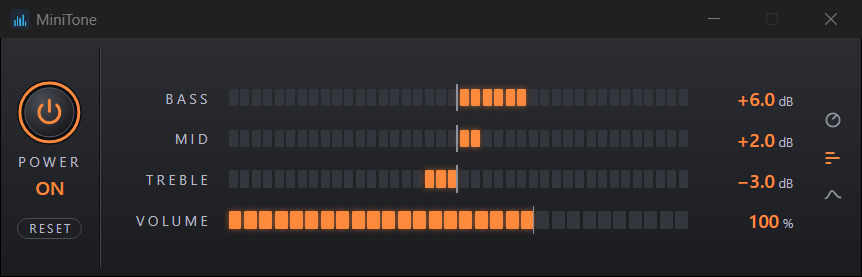
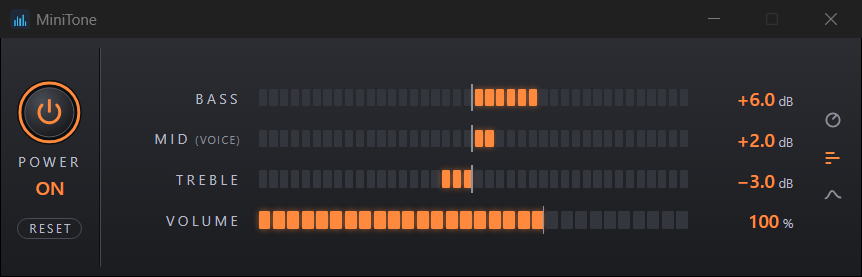
MID の名前に、小さい字で (VOICE) を添える（案 V3）
ツマミ、バー、曲線の 3 つの表示とも。バーの名前の列を 66 → 90 px に広げた。
README に MID が声の帯域であることを足し、絵 3 枚を作り直した。

diff --git a/app/ui/index.html b/app/ui/index.html
@@ -13,6 +13,7 @@
       <button type="button" id="attach" hidden></button>
     </div>
 
+    <!-- MID の名前には、小さい字で "(VOICE)" を添える（声の聞き取りに効く帯域だと分かるように）。 -->
     <!-- ツマミの絵は 4 つとも同じ部品を使う（アナログの表示）。目盛りと指針の位置は main.js が決める。 -->
     <svg width="0" height="0" aria-hidden="true" focusable="false">
       <defs>
@@ -57,7 +58,7 @@
       </div>
 
       <div class="control tone">
-        <div class="knob" id="mid" role="slider" tabindex="0" aria-label="Mid">
+        <div class="knob" id="mid" role="slider" tabindex="0" aria-label="Mid (voice)">
           <svg viewBox="-100 -100 200 200" aria-hidden="true">
             <path class="ticks" d="M -60.81 60.81 A 86 86 0 1 1 60.81 60.81" pathLength="100" stroke-dasharray="0.8 9.12" />
             <circle r="68" fill="#0d0e10" />
@@ -65,7 +66,7 @@
             <g class="pointer"><line x1="0" y1="-58" x2="0" y2="-30" /></g>
           </svg>
         </div>
-        <span class="label">MID</span>
+        <span class="label">MID<small> (VOICE)</small></span>
         <span class="value" id="mid-value"></span>
       </div>
 
@@ -94,7 +95,7 @@
         <g class="point" id="bass-point" role="slider" tabindex="0" aria-label="Bass">
           <circle class="dot" r="6" /><circle class="grab" r="14" /><text class="num"></text>
         </g>
-        <g class="point" id="mid-point" role="slider" tabindex="0" aria-label="Mid">
+        <g class="point" id="mid-point" role="slider" tabindex="0" aria-label="Mid (voice)">
           <circle class="dot" r="6" /><circle class="grab" r="14" /><text class="num"></text>
         </g>
         <g class="point" id="treble-point" role="slider" tabindex="0" aria-label="Treble">
@@ -125,8 +126,8 @@
           <span class="num"><b id="bass-num"></b><i id="bass-unit"></i></span>
         </div>
         <div class="row">
-          <span class="label">MID</span>
-          <div class="bar" id="mid-bar" role="slider" tabindex="0" aria-label="Mid"></div>
+          <span class="label">MID<small> (VOICE)</small></span>
+          <div class="bar" id="mid-bar" role="slider" tabindex="0" aria-label="Mid (voice)"></div>
           <span class="num"><b id="mid-num"></b><i id="mid-unit"></i></span>
         </div>
         <div class="row">

diff --git a/app/ui/main.js b/app/ui/main.js
@@ -116,7 +116,7 @@ function magnitudeDb(c, hz) {
 // （フィルタの周波数の 150 Hz、5 kHz では、線は設定の値の半分ほどの高さしかない）。
 const CURVE_FILTERS = {
   bass: { name: "BASS", pointHz: 50, make: (db) => lowShelfFilter(150, db, 0.707) },
-  mid: { name: "MID", pointHz: 2000, make: (db) => peakingFilter(2000, db, 0.7) },
+  mid: { name: "MID", note: " (VOICE)", pointHz: 2000, make: (db) => peakingFilter(2000, db, 0.7) },
   treble: { name: "TREBLE", pointHz: 12000, make: (db) => highShelfFilter(5000, db, 0.707) },
 };
 
@@ -196,7 +196,9 @@ function setupCurve(tone) {
     svgElement("text", { class: "axis", x: x + 3, y: bottom - 1.5 }, axis, text);
   }
   for (const filter of Object.values(CURVE_FILTERS)) {
-    svgElement("text", { class: "name", x: curveX(filter.pointHz), y: bottom + 13 }, axis, filter.name);
+    const name = svgElement("text", { class: "name", x: curveX(filter.pointHz), y: bottom + 13 }, axis, filter.name);
+    // MID には、小さい字で "(VOICE)" を添える。
+    if (filter.note) svgElement("tspan", {}, name, filter.note);
   }
 
   curveReady = true;

diff --git a/app/ui/style.css b/app/ui/style.css
@@ -253,6 +253,14 @@ main::before {
   color: var(--muted);
   font-size: 11px;
   letter-spacing: 0.26em;
+  white-space: nowrap;
+}
+
+/* MID に添える "(VOICE)"。名前より小さく、暗い字。 */
+.label small {
+  color: var(--tick);
+  font-size: 8.5px;
+  letter-spacing: 0.14em;
 }
 
 .value {
@@ -300,8 +308,9 @@ body:not(.digital) #bars {
   gap: 14px;
 }
 
+/* いちばん長い名前（"MID (VOICE)"）が 1 行に入る幅。 */
 #bars .label {
-  width: 66px;
+  width: 90px;
   text-align: right;
 }
 
@@ -424,6 +433,12 @@ body:not(.curve) #curve {
   font-size: 9.5px;
   letter-spacing: 0.2em;
   text-anchor: middle;
+}
+
+#curve .name tspan {
+  fill: var(--tick);
+  font-size: 8px;
+  letter-spacing: 0.14em;
 }
 
 #curve-line {

diff --git a/docs/plans/archive/mid-or-voice.md b/docs/plans/archive/mid-or-voice.md
@@ -1,0 +1,89 @@
+# MID の表記を VOICE にするかの検討
+
+## 目的・背景
+
+2026-11-20 にユーザーが「Midの表記はVoiceにしたら分かりやすくなるか分かりにくくなるか考える」と指示した。
+
+MID のツマミは、2 kHz を中心にした山の形のフィルタ（Q 0.7、およそ 1〜4 kHz、±20 dB）。この周波数は、声の聞き取りに効く帯域として選んだ（[済んだプラン](archive/three-band-tone.md)）。
+
+この文書は検討だけ。コードは変えていない。
+
+## 対応方針
+
+分かりやすくなる点と、分かりにくくなる点を並べ、おすすめを出す。決めるのはユーザー。
+
+## VOICE にすると分かりやすくなる点
+
+1. **何のためのツマミかが、名前で分かる。** 音に詳しくない人は「MID（中音）」を回すと何が変わるかを知らない。「VOICE」なら、声が聞き取りにくいときに回すものだと分かる。
+2. **このツマミを選んだ理由と合っている。** 2 kHz にしたのは、動画や会議の声を聞き取りやすくするため。上げると、実際に声が前に出る。
+
+## VOICE にすると分かりにくくなる点
+
+1. **声だけが変わるように読める。** 実際には 1〜4 kHz の音が全部動く（ギター、スネア、効果音も）。テレビやサウンドバーの「クリアボイス」のような、声だけを強める機能を期待させる。
+2. **下げたときの意味が合わない。** 「VOICE を下げる」は、声が小さくなる、歌が消えると読める。実際には、声の基音（100〜300 Hz）は残り、こもって遠くなるだけ。音楽で中音を下げて低音と高音を目立たせる使い方（「VOICE −6 dB」）は、名前から思いつかない。
+3. **並びの種類がそろわない。** BASS と TREBLE は音の高さの名前、VOICE は音の中身の名前。BASS、MID、TREBLE は、アンプやミキサーで広く知られた 3 つの並びで、画面のデザイン（アンプの前面パネル）とも合っている。
+4. **曲線の表示と合わない。** 横が周波数のグラフでは、点の名前は BASS、MID、TREBLE（低い順）が自然。まんなかの点だけ VOICE になる。
+5. **直すものがある。** 画面の名前（ツマミ、バー、グラフ、読み上げ用の名前）、README の説明と絵 3 枚、CLAUDE.md。設定ファイルと APO は変えない。
+
+## ほかの名前
+
+- PRESENCE: ギターのアンプで、この帯域に使う名前。音に詳しくない人には MID より分かりにくい。
+- VOCAL、CLARITY: VOICE と同じ問題がある（声だけ、または「はっきりさせる機能」に読める）。
+
+## おすすめ
+
+**MID のままにする。** VOICE は「声を聞き取りやすくする」という 1 つの使い方では分かりやすいが、声だけが変わると読めること、下げる方向の意味が合わないことで、全体では誤解が増える。
+
+声に効くことを伝えたいなら、名前は変えずに補う。
+
+- MID のツマミ、バー、点にマウスを載せたときの説明（"Mid — around 2 kHz, where voices are" など）を出す。
+- README の使い方に「声が聞き取りにくいときは MID を上げる」と書く。
+
+MiniTone の主な使い道を「声を聞き取りやすくすること」に絞り、音に詳しくない人だけに向けるなら、VOICE にする選択もありうる。
+
+## 「MID (VOICE)」と書く場合の検証（2026-11-20）
+
+ユーザーが「MID(VOICE)の表記にした場合で検証して」と指示。画面のファイルの写しで名前だけを変え、ヘッドレスの Edge に 3 つの表示を描かせて見た。アプリのコードは変えていない。絵はコミットしない（ユーザーの「ダウンロード」フォルダの `minitone-mid-voice.png`）。
+
+### 見た目
+
+| 案 | 中身 | ツマミの表示 | バーの表示 | 曲線の表示 |
+|---|---|---|---|---|
+| V1 | 名前を "MID (VOICE)" にするだけ | 入る。名前がほかの倍の長さ | **2 行に折れて崩れる**（名前の列が 66 px） | 入る。TREBLE との間は約 45 px |
+| V2 | V1 + バーの名前の列を 66 → 106 px | V1 と同じ | 入る。バーが 40 px 短くなる（LED 1 粒が約 1 px 細くなる） | V1 と同じ |
+| V3 | "MID" はそのまま、"(VOICE)" を小さく暗い字で添える | 入る。MID が主、VOICE が添え書きに見える | 入る。名前の列は 90 px、バーは 24 px 短くなる | 入る |
+
+- ツマミの列の幅（116 px）には、どの案も入る。V1、V2 は、4 つの名前のうち 1 つだけ長く、並びのそろいが崩れる。
+- V3 がいちばん収まりがよい。"(VOICE)" は 8.5 px なので、小さい画面では読みにくい。
+
+### 意味
+
+- **MID が主なので、VOICE だけにしたときの誤解が減る。** 並び（BASS、MID、TREBLE）はそのまま。かっこの中は「たとえば声」という補いに読める。下げる方向（中音を引く）も MID として通じる。
+- **「声だけが変わる」とは読みにくくなるが、ゼロではない。** "MID (VOICE)" を「MID すなわち VOICE」と読む人はいる。V3 のように小さく添えるほうが、補いだと伝わる。
+- **常に見えるので、マウスを載せたときの説明より気づきやすい。** 説明は、載せないと出ない。
+- **パネルの文字が増える。** いまは名前 5 つと値だけの、アンプの前面パネルのような画面。かっこ書きは、パネルの表記としては珍しい。
+
+### おすすめ（検証のあと）
+
+**入れるなら V3。** 声に効くことが常に見え、MID の並びと意味は保てる。V1 はバーの表示が崩れるので、そのままでは使えない。V2 は使えるが、名前の長さがそろわない。
+
+「MID のまま、説明はマウスを載せたときと README」と V3 の差は、画面のすっきりさと、気づきやすさのどちらを取るか。音に詳しくない人に使ってもらうことを重く見るなら V3、パネルの見た目を重く見るなら MID のまま。
+
+## 結果（2026-11-20）
+
+ユーザーが「V3 で実装して」と決定。作った。
+
+- `app/ui/index.html`: ツマミとバーの名前を `MID<small> (VOICE)</small>` にした。読み上げ用の名前は "Mid (voice)"。
+- `app/ui/main.js`: 曲線の表示の MID の名前に、小さい字の "(VOICE)" を添える。
+- `app/ui/style.css`: 添え書きの字（8.5 px、暗い色）。バーの名前の列を 66 → 90 px（バーは 24 px 短くなる）。
+- 設定ファイル、APO、Rust 側は変えていない。内部の名前は `mid` のまま。
+- README に、MID が声の帯域であることを 1 行足し、絵 3 枚を作り直した。
+
+## 影響範囲
+
+- `app/ui/`、README、`docs/images/`、CLAUDE.md。
+
+## テスト方針
+
+- 画面のファイルをヘッドレスの Edge に描かせ、3 つの表示とも崩れていないことを絵で見る（見た）。
+- `app/build.ps1` が通ること。

diff --git a/CLAUDE.md b/CLAUDE.md
@@ -37,6 +37,7 @@
   - Treble と Bass は、アンプのトーンコントロールと同じ種類のフィルタ（シェルビング）。
   - Volume は 0〜150%。100% が元の音量。
   - Treble は 5 kHz から上、Bass は 150 Hz から下を ±20 dB（周波数は 2026-11-20 にこの値で確定）。
+  - 画面では、MID の名前に小さい字で "(VOICE)" を添える（"MID (VOICE)"。2026-11-20 にユーザーが案 V3 を選んだ。声の聞き取りに効く帯域だと分かるように。名前を VOICE だけにはしない。経緯は `docs/plans/archive/mid-or-voice.md`）。
   - Mid は 2 kHz を中心に ±20 dB（山の形のフィルタ、設定ファイルの `band=2000,増減,0.7`。2026-11-20 にユーザーが「2 kHz で 20 dB」と決定）。声の聞き取りに効く帯域。調べたことと経緯は `docs/plans/archive/three-band-tone.md`。
   - Treble、Mid、Bass を上げると、音がデジタルの上限を超え、APO の後ろにある Windows のリミッターが全体を下げて、音が揺れる（2026-11-19 に確認）。これを防ぐため、APO は上げている帯域の上げ幅を、出力が上限を超えない範囲に自動で抑える（設定の `limit=1`）。全体の音量は下げない。大きい音の場面では上げ幅が減り、小さい音の場面では設定どおり上がる。経緯と試算は `docs/plans/archive/tone-wobble.md`。
 - **プリセットは入れない。出力デバイスごとの設定は持たない**（設定は全部のデバイスで共通。2026-11-20 にユーザーが決定）。

diff --git a/README.md b/README.md
@@ -83,6 +83,7 @@ Then start MiniTone from the Start menu. Press the power button on the left to t
 - The three small icons on the right switch between the knob view, the LED bar view and the curve view.
 - Knobs: drag left or right, use the mouse wheel, or use the arrow keys. Hold Shift while dragging for fine steps.
 - Bars: click a position on a bar to set that value, or drag along it. The mouse wheel and the arrow keys work too.
+- Mid is centered at 2 kHz, the range that makes voices easier to hear. The panel labels it "MID (VOICE)".
 - Curve: drag the Bass, Mid and Treble points up or down. The line shows the filters that are applied, and the LED columns behind it follow the line. Volume stays a knob. The mouse wheel and the arrow keys work too.
 - Double-click a knob, a bar or a point to return it to the center (0 dB, 100%). The RESET button under the power button returns all four knobs to the center.
 - The close button keeps the app in the system tray. To quit, right-click the tray icon and choose "Quit".

diff --git a/DONE.md b/DONE.md
@@ -52,3 +52,6 @@
   - README の絵を 3 枚とも作り直した（切り替えの絵が 3 つ。値は BASS +6、MID +2、TREBLE −3、VOLUME 100%）
 - [x] まんなかから、ホイールと矢印キーで動かないのを直す（2026-11-20） [plan](docs/plans/archive/wheel-key-detent.md)
   - 原因: まんなかに止まりやすくする処理（ツマミのドラッグ用）が、ホイールとキーの 1 刻みにもかかっていた。ドラッグのときだけにした
+- [x] MID の表記を VOICE にしたら、分かりやすくなるか、分かりにくくなるかを考える（2026-11-20） [plan](docs/plans/archive/mid-or-voice.md)
+  - VOICE だけにすると、声だけが変わるように読める、下げる方向の意味が合わない、という理由で、名前は MID のままにした
+  - ユーザーが案 V3 を選び、MID に小さい字で "(VOICE)" を添えた。README の絵 3 枚を作り直した

diff --git a/TODO.md b/TODO.md
@@ -20,10 +20,6 @@
 
 ## 実装
 
-- [ ] MID の表記を VOICE にしたら、分かりやすくなるか、分かりにくくなるかを考える
-  - 2026-11-20 にユーザーが指示（原文「Midの表記はVoiceにしたら分かりやすくなるか分かりにくくなるか考える」）
-  - 関連: MID を 2 kHz（声の聞き取りに効く帯域）に決めた経緯（[済んだプラン](docs/plans/archive/three-band-tone.md)）
-
 ## 配布
 
 - [~] 配布の準備をする [plan](docs/plans/distribution.md)
